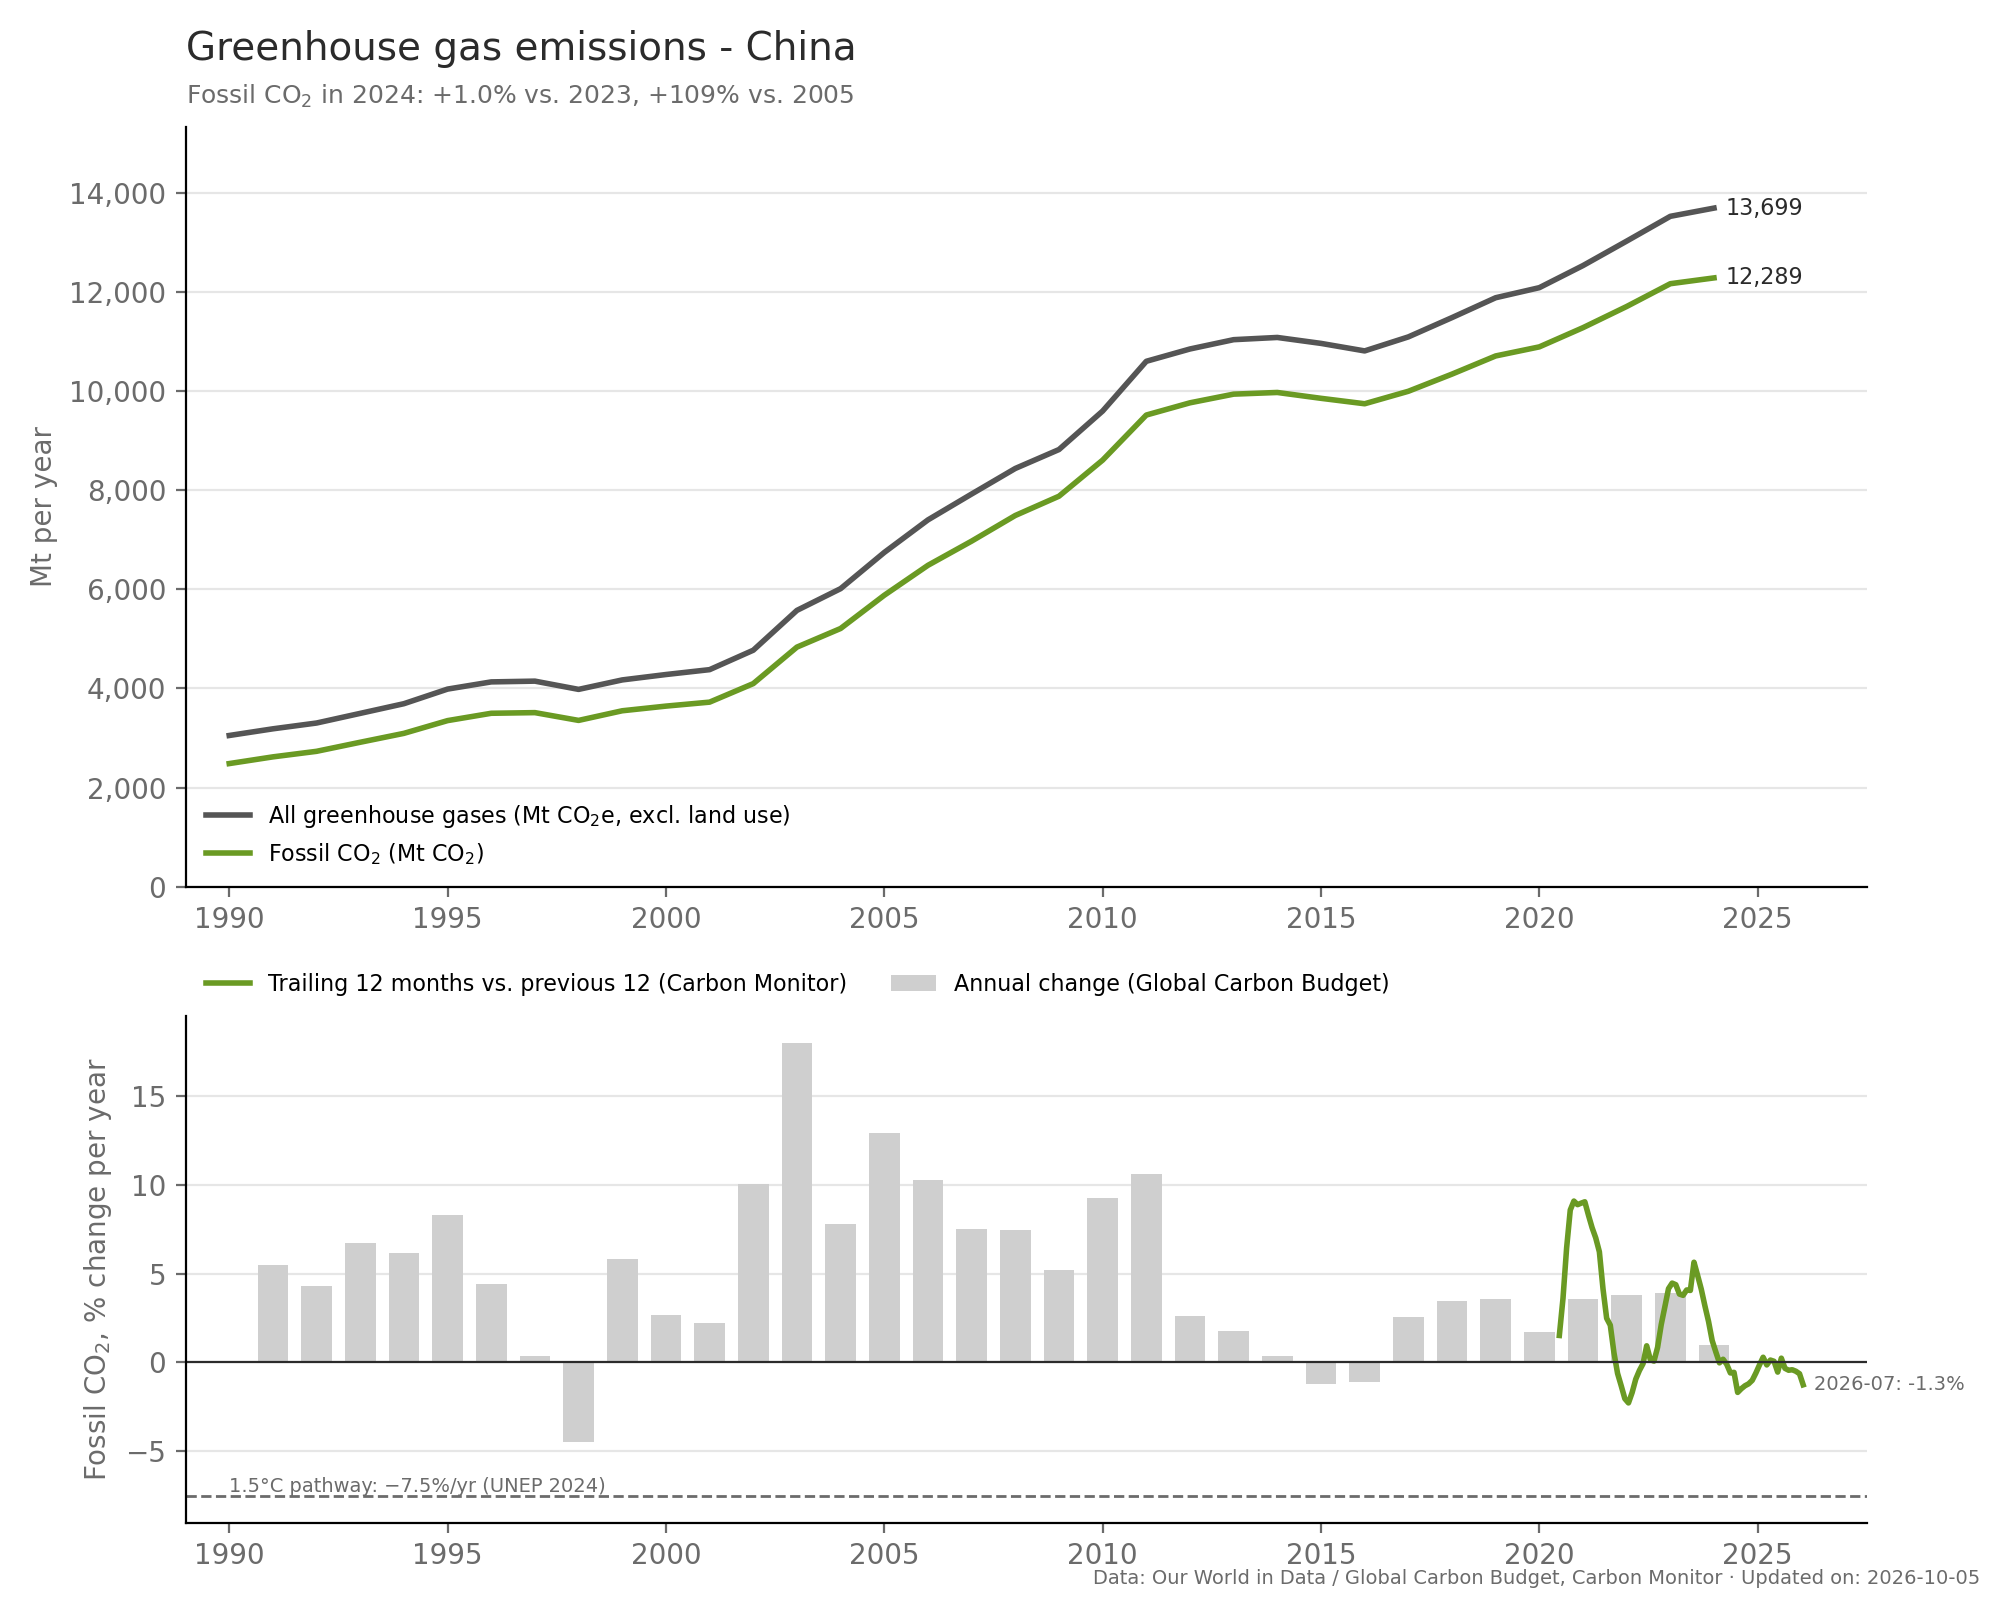
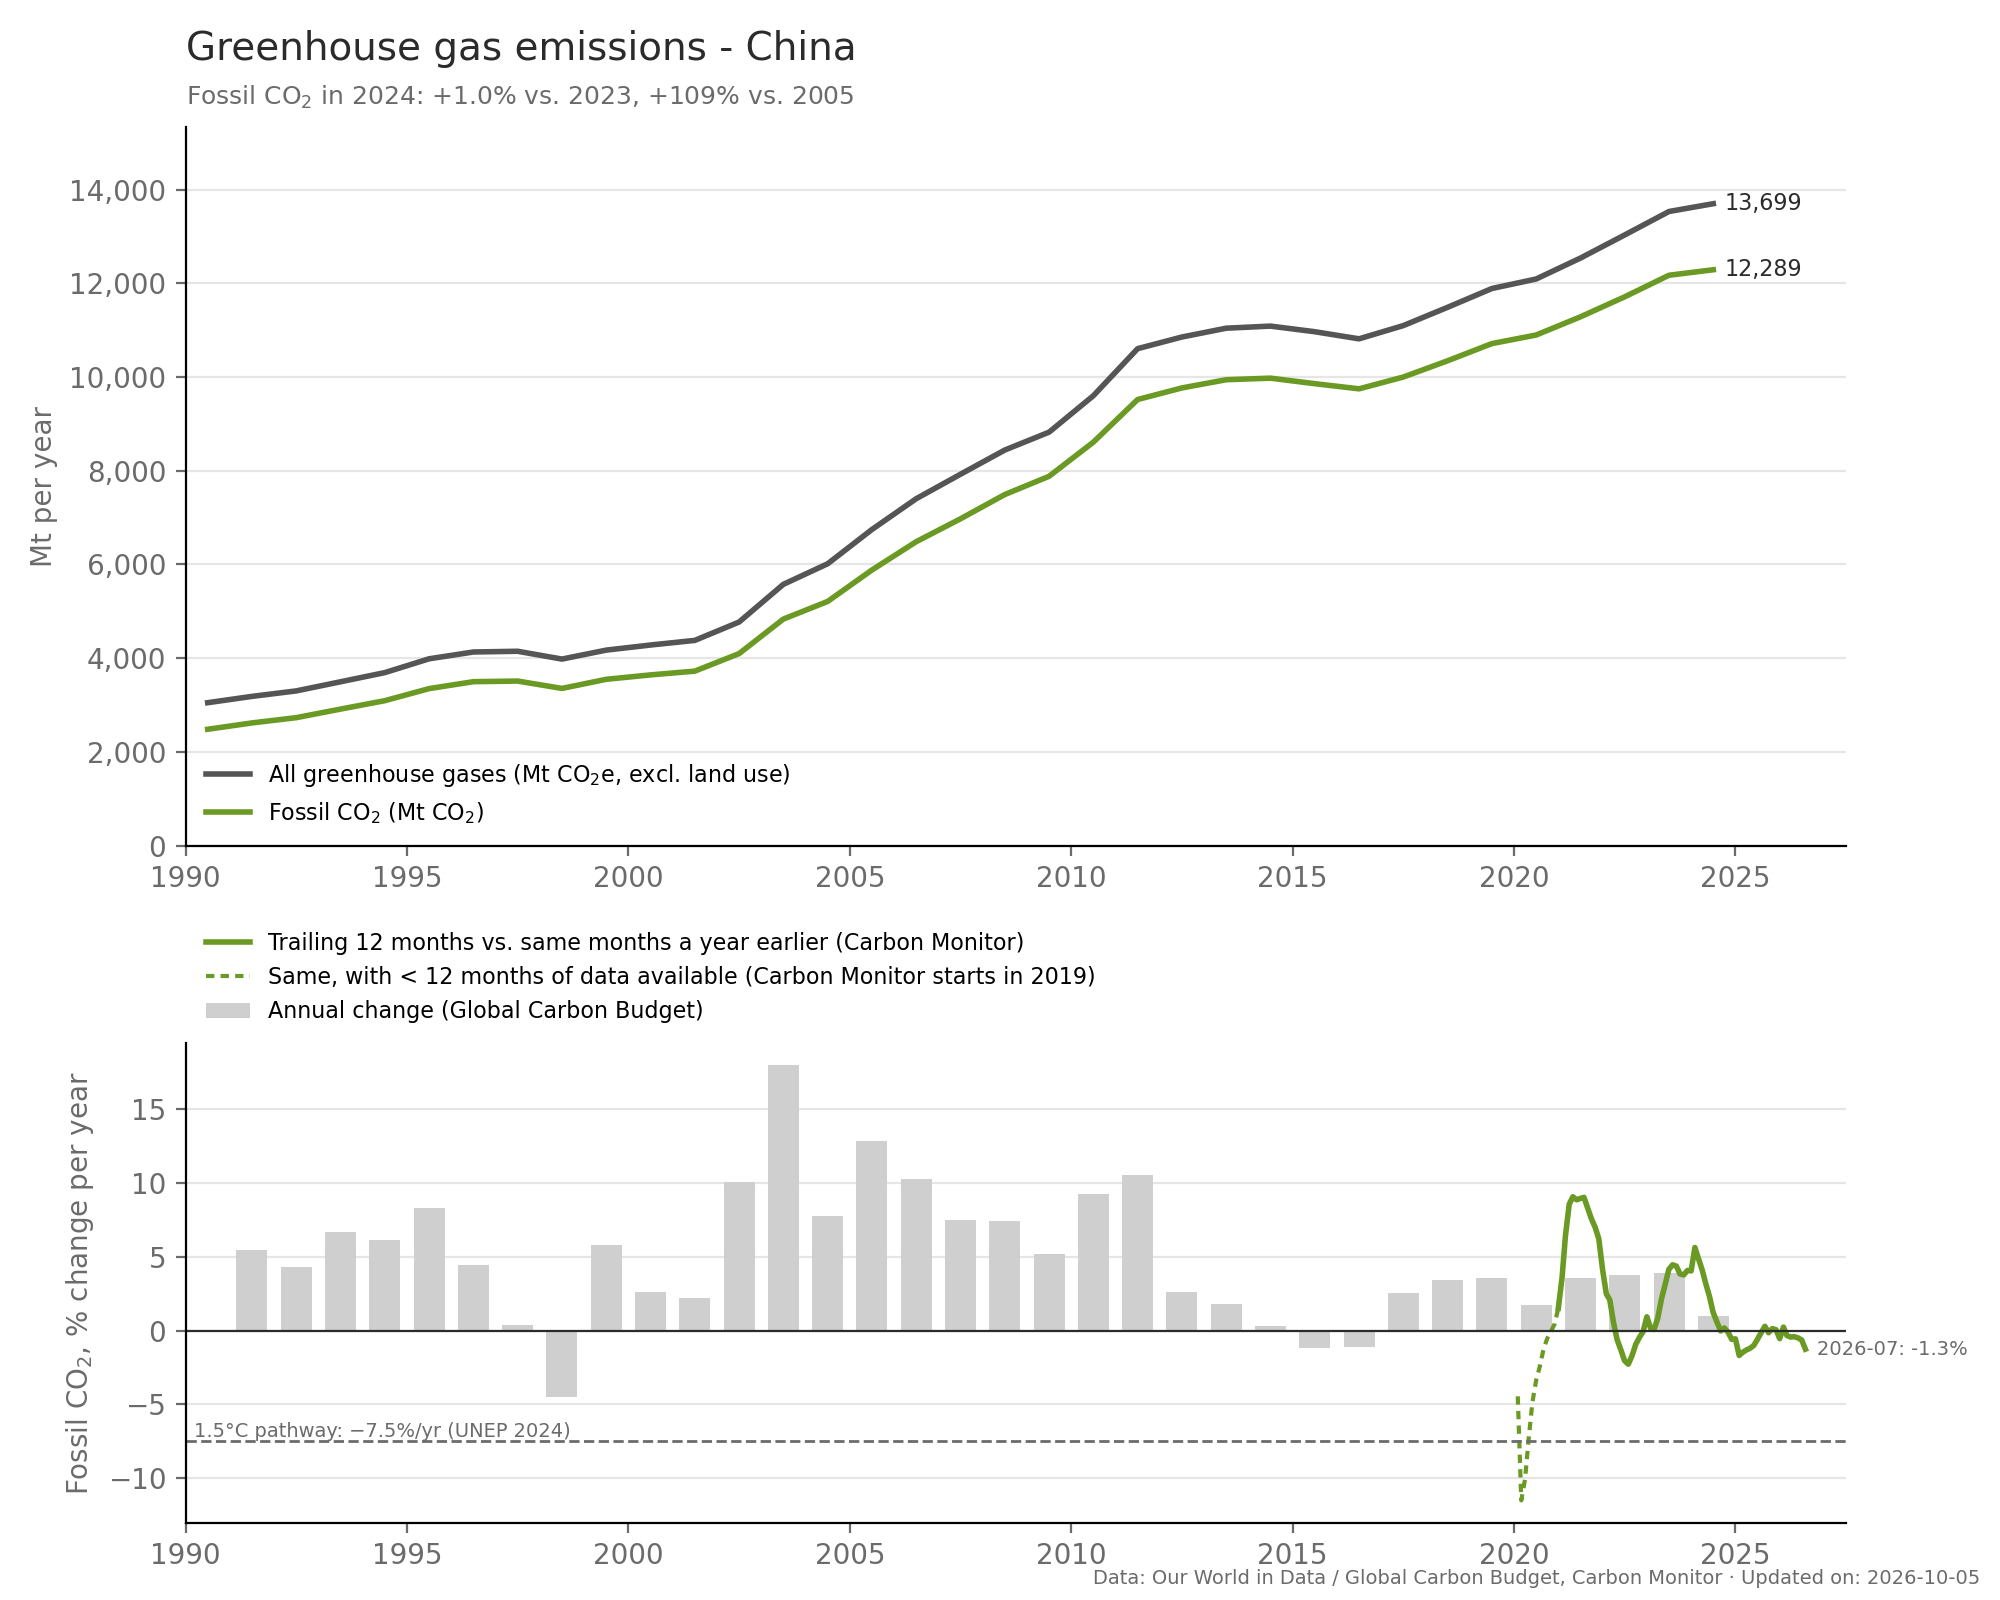
Extend Carbon Monitor 12-month change line back to 2020
Use year-to-date windows (same calendar days a year earlier) during the first
year of data, drawn dashed, and plot on a true date axis with annual bars
spanning their calendar year.

diff --git a/make_emissions_plots.py b/make_emissions_plots.py
@@ -20,6 +20,8 @@ INK = "#2b2b2b"
 MUTED = "#6b6b6b"
 CO2_COLOR = "#6a9a23"
 GHG_COLOR = "#555555"
+# x-axis is in decimal years: annual values sit mid-year, so each bar spans the calendar year it covers
+MID_YEAR = 0.5
 
 
 def read_owid() -> pd.DataFrame:
@@ -38,10 +40,26 @@ def read_carbon_monitor() -> pd.DataFrame | None:
     return df.pivot_table(index="date", columns="country", values="value", aggfunc="sum")
 
 
-def rolling_12m_change(daily: pd.Series) -> pd.Series:
-    """% change of the trailing 365-day total vs. the 365 days before it, sampled monthly."""
-    total = daily.rolling(365).sum()
-    return ((total / total.shift(365) - 1) * 100).resample("ME").last().dropna()
+def rolling_12m_change(daily: pd.Series) -> pd.DataFrame:
+    """% change of the trailing 12 months vs. the same 12 months a year earlier, sampled at each month end.
+
+    The series only starts in 2019, so during its second year the window is shortened to the months
+    available (Jan vs. Jan, Jan-Feb vs. Jan-Feb, ...), always comparing the same calendar days. By the
+    end of that year the window is a full 12 months, so both parts join seamlessly.
+    Returns the change, the window length in days, and `x`: the window's end date as a decimal year.
+    """
+    daily = daily.dropna()
+    rows = []
+    for end in daily.resample("ME").last().index:
+        values = daily.loc[:end]
+        window = min(365, len(values) - 365)
+        if window < 28:
+            continue
+        current, previous = values.iloc[-window:].sum(), values.iloc[-window - 365:-365].sum()
+        last = values.index[-1]
+        x = last.year + last.dayofyear / (366 if last.is_leap_year else 365)
+        rows.append({"end": end, "change": (current / previous - 1) * 100, "window": window, "x": x})
+    return pd.DataFrame(rows).set_index("end")
 
 
 def style_axes(ax):
@@ -65,14 +83,14 @@ def plot_emissions(owid: pd.DataFrame, cm_daily: pd.Series | None, name: str, ou
     style_axes(ax2)
 
     # Top: absolute annual emissions
-    ax.plot(ghg.index, ghg, color=GHG_COLOR, linewidth=2, label="All greenhouse gases (Mt CO$_2$e, excl. land use)")
-    ax.plot(co2.index, co2, color=CO2_COLOR, linewidth=2, label="Fossil CO$_2$ (Mt CO$_2$)")
+    ax.plot(ghg.index + MID_YEAR, ghg, color=GHG_COLOR, linewidth=2, label="All greenhouse gases (Mt CO$_2$e, excl. land use)")
+    ax.plot(co2.index + MID_YEAR, co2, color=CO2_COLOR, linewidth=2, label="Fossil CO$_2$ (Mt CO$_2$)")
     for series, color in ((ghg, GHG_COLOR), (co2, CO2_COLOR)):
-        ax.annotate(f"{series.iloc[-1]:,.0f}", xy=(series.index[-1], series.iloc[-1]), xytext=(4, 0),
+        ax.annotate(f"{series.iloc[-1]:,.0f}", xy=(series.index[-1] + MID_YEAR, series.iloc[-1]), xytext=(4, 0),
                     textcoords="offset points", va="center", fontsize=8, color=INK)
     if peak_year != last_year:
-        ax.scatter([peak_year], [co2[peak_year]], s=30, color=CO2_COLOR, edgecolor="white", linewidth=1.5, zorder=3)
-        ax.annotate(f"peak {peak_year}", xy=(peak_year, co2[peak_year]), xytext=(0, 8), textcoords="offset points",
+        ax.scatter([peak_year + MID_YEAR], [co2[peak_year]], s=30, color=CO2_COLOR, edgecolor="white", linewidth=1.5, zorder=3)
+        ax.annotate(f"peak {peak_year}", xy=(peak_year + MID_YEAR, co2[peak_year]), xytext=(0, 8), textcoords="offset points",
                     ha="center", fontsize=8, color=MUTED)
     ax.set_ylim(0, max(ghg.max(), co2.max()) * 1.12)
     ax.set_ylabel("Mt per year", color=MUTED)
@@ -88,26 +106,30 @@ def plot_emissions(owid: pd.DataFrame, cm_daily: pd.Series | None, name: str, ou
     ax.text(0, 1.03, headline, transform=ax.transAxes, fontsize=9, color=MUTED)
 
     # Bottom: rate of change, the "are we bending the curve" view
-    ax2.bar(co2_change.index, co2_change, width=0.7, color="#cfcfcf", label="Annual change (Global Carbon Budget)")
+    ax2.bar(co2_change.index + MID_YEAR, co2_change, width=0.7, color="#cfcfcf", label="Annual change (Global Carbon Budget)")
     if cm_daily is not None:
-        cm_change = rolling_12m_change(cm_daily)
-        x = cm_change.index.year + (cm_change.index.month - 0.5) / 12 - 0.5  # align with annual bars centered on year
-        ax2.plot(x, cm_change, color=CO2_COLOR, linewidth=2, label="Trailing 12 months vs. previous 12 (Carbon Monitor)")
-        ax2.annotate(f"{cm_change.index[-1]:%Y-%m}: {cm_change.iloc[-1]:+.1f}%", xy=(x[-1], cm_change.iloc[-1]),
+        cm = rolling_12m_change(cm_daily)
+        full = cm[cm["window"] == 365]
+        partial = cm.loc[: full.index[0]]  # includes the first full point so the two segments connect
+        ax2.plot(full["x"], full["change"], color=CO2_COLOR, linewidth=2,
+                 label="Trailing 12 months vs. same months a year earlier (Carbon Monitor)")
+        ax2.plot(partial["x"], partial["change"], color=CO2_COLOR, linewidth=1.5, linestyle=(0, (2, 1.5)),
+                 label="Same, with < 12 months of data available (Carbon Monitor starts in 2019)")
+        ax2.annotate(f"{cm.index[-1]:%Y-%m}: {cm['change'].iloc[-1]:+.1f}%", xy=(cm["x"].iloc[-1], cm["change"].iloc[-1]),
                      xytext=(4, 0), textcoords="offset points", va="center", fontsize=7, color=MUTED)
     else:
         ax2.text(0.99, 1.02, "No monthly (Carbon Monitor) data for this country", transform=ax2.transAxes,
                  ha="right", fontsize=7, color=MUTED)
     ax2.axhline(0, color=INK, linewidth=0.8)
     ax2.axhline(PATHWAY_1P5C_PCT, color=MUTED, linewidth=1, linestyle="--")
-    ax2.text(START_YEAR, PATHWAY_1P5C_PCT, "1.5°C pathway: −7.5%/yr (UNEP 2024)", va="bottom", fontsize=7, color=MUTED)
-    lo = min(co2_change.min(), PATHWAY_1P5C_PCT, cm_change.min() if cm_daily is not None else 0)
-    hi = max(co2_change.max(), 3, cm_change.max() if cm_daily is not None else 0)
+    ax2.text(START_YEAR + 0.2, PATHWAY_1P5C_PCT, "1.5°C pathway: −7.5%/yr (UNEP 2024)", va="bottom", fontsize=7, color=MUTED)
+    lo = min(co2_change.min(), PATHWAY_1P5C_PCT, cm['change'].min() if cm_daily is not None else 0)
+    hi = max(co2_change.max(), 3, cm['change'].max() if cm_daily is not None else 0)
     ax2.set_ylim(lo - 1.5, hi + 1.5)
     ax2.set_ylabel("Fossil CO$_2$, % change per year", color=MUTED)
-    ax2.legend(loc="lower left", bbox_to_anchor=(0, 1), ncol=2, frameon=False, fontsize=8)
+    ax2.legend(loc="lower left", bbox_to_anchor=(0, 1), ncol=2 if cm_daily is None else 1, frameon=False, fontsize=8)
 
-    xlim = (START_YEAR - 1, datetime.now().year + 1.5)
+    xlim = (START_YEAR, datetime.now().year + 1.5)
     ax.set_xlim(xlim)
     ax2.set_xlim(xlim)
     sources = "Our World in Data / Global Carbon Budget" + (", Carbon Monitor" if cm_daily is not None else "")
